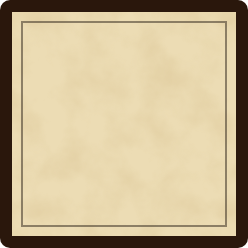
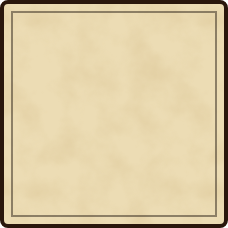
UI: a thin outline on Đại Long's tooltips
Đại Long's tooltip panel drew the mockup box's 6-point dark frame, far
too heavy round a one-line tooltip. ui-art gains a paper_box call (the
box without that frame, outlined in 2 points of its colour) for Đại
Long's panel_tooltip, with a 1-point bleed; the skin's content insets
follow the paper's new edge. Kambara's and Tampadesa's tooltips, already
thin-edged, are unchanged.

Claude-Session: https://claude.ai/code/session_01E5PQdFiW8ubMzCiZxgcQDM

Changed region(s): [[0.0, 0.0, 1.0, 1.0]]

diff --git a/crates/tools/ui-art/uiart/render.py b/crates/tools/ui-art/uiart/render.py
@@ -127,6 +127,18 @@ def _at(x, y, w, h, a):
     return x + ax, y + ay
 
 
+def _paper_box(th, x, y, w, h, stroke):
+    # Đại Long's box() starts with its frame, a dark rect 6 points larger all round: drop it and
+    # outline the paper instead.
+    svg = th.box(x, y, w, h)
+    frame_end = svg.index("/>") + 2
+    frame = svg[:frame_end]
+    if 'fill="#2a170c"' not in frame:
+        raise ValueError("paper_box: box() no longer starts with Đại Long's frame")
+    return (svg[frame_end:]
+            + f'<rect x="{x}" y="{y}" width="{w}" height="{h}" rx="3" fill="none" stroke="#2a170c" stroke-width="{stroke}"/>')
+
+
 def _with_lines(th, n, draw):
     # caption() and speech() size themselves from their wrapped text; text is stripped, so
     # wrap to n empty lines for the height wanted.
@@ -138,6 +150,9 @@ CALLS = {
     # Panels.
     "mpanel": lambda th, x, y, w, h, a: th.mpanel(x, y, w, h, crest=a.get("crest", False)),
     "box": lambda th, x, y, w, h, a: th.box(x, y, w, h, big=a.get("big", False)),
+    # box() with a thin outline (`stroke` points, 2 by default, in its frame's colour) in place of
+    # the 6-point frame Đại Long's draws round it, for small panels such as tooltips.
+    "paper_box": lambda th, x, y, w, h, a: _paper_box(th, x, y, w, h, a.get("stroke", 2)),
     "bar_bg": lambda th, x, y, w, h, a: th.bar_bg(x, y, w, h),
     "panel_bg": lambda th, x, y, w, h, a: th.panel_bg(x, y, w, h),
     "card": lambda th, x, y, w, h, a: th.card(x, y, w, h),

diff --git a/crates/tools/ui-art/uiart/catalog.py b/crates/tools/ui-art/uiart/catalog.py
@@ -53,7 +53,7 @@ FORMATS = {"png": ".png", "jpeg": ".jpg"}
 
 # The drawing calls the renderer knows (render.CALLS has one function per name).
 KNOWN_CALLS = (
-    "mpanel", "box", "bar_bg", "panel_bg", "card", "row_bg", "text_input", "caption", "speech",
+    "mpanel", "box", "paper_box", "bar_bg", "panel_bg", "card", "row_bg", "text_input", "caption", "speech",
     "button", "tab", "item_marker", "icon_button", "build_button", "checkbox", "toggle", "slider",
     "dropdown", "divider", "realm_emblem", "seal", "home_scene", "world_map_base", "world_map_threat",
     "world_map_frame", "world_map_backdrop", "world_map_mark", "world_map_compass", "world_map_coin",
